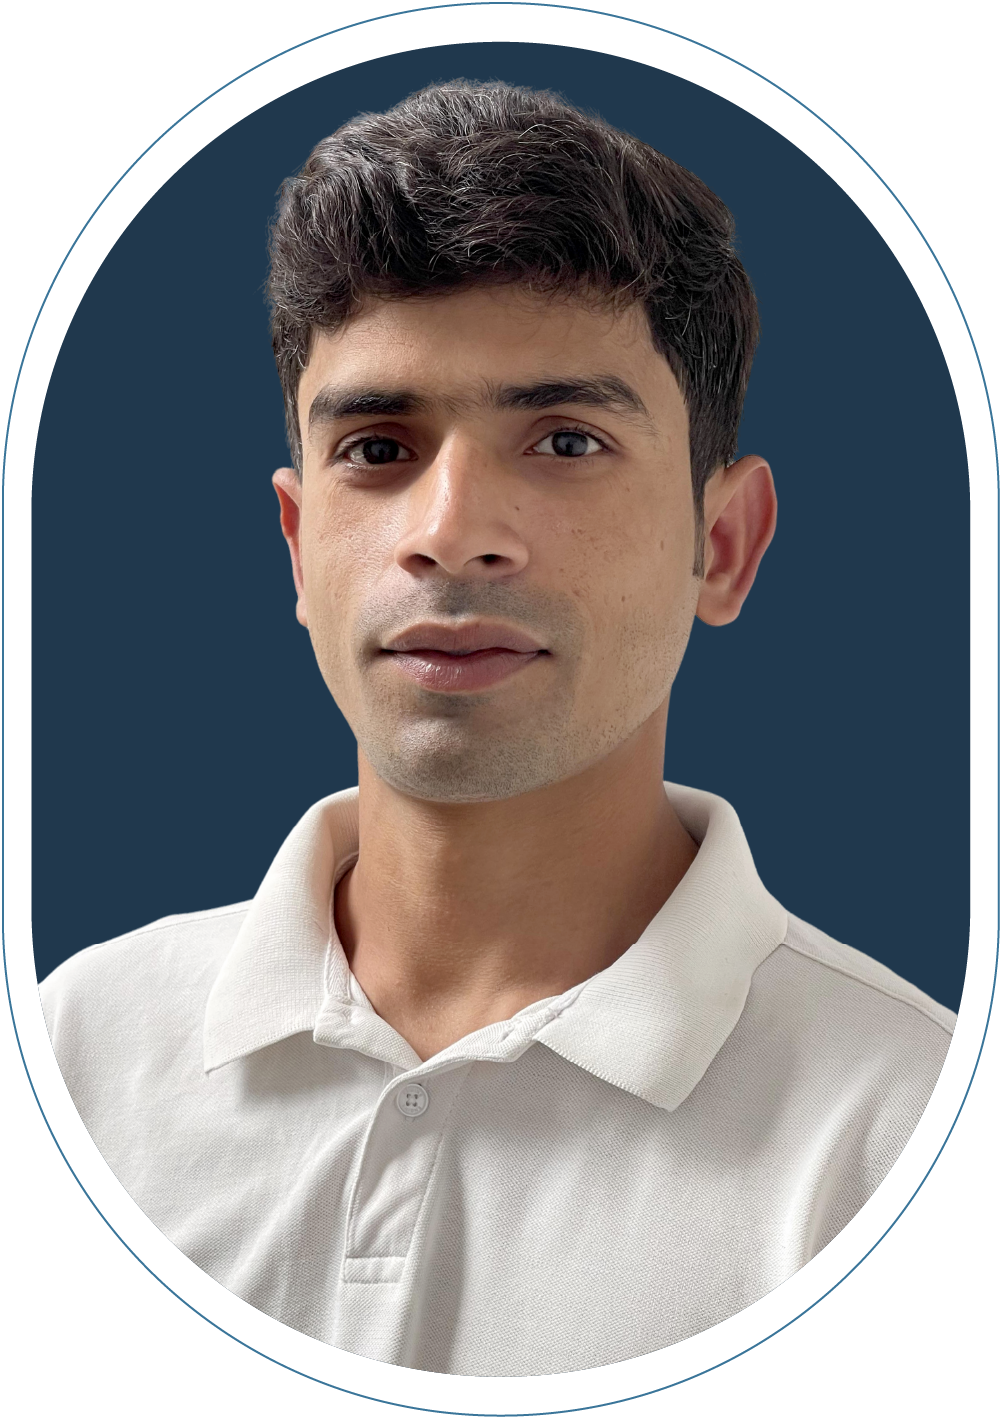
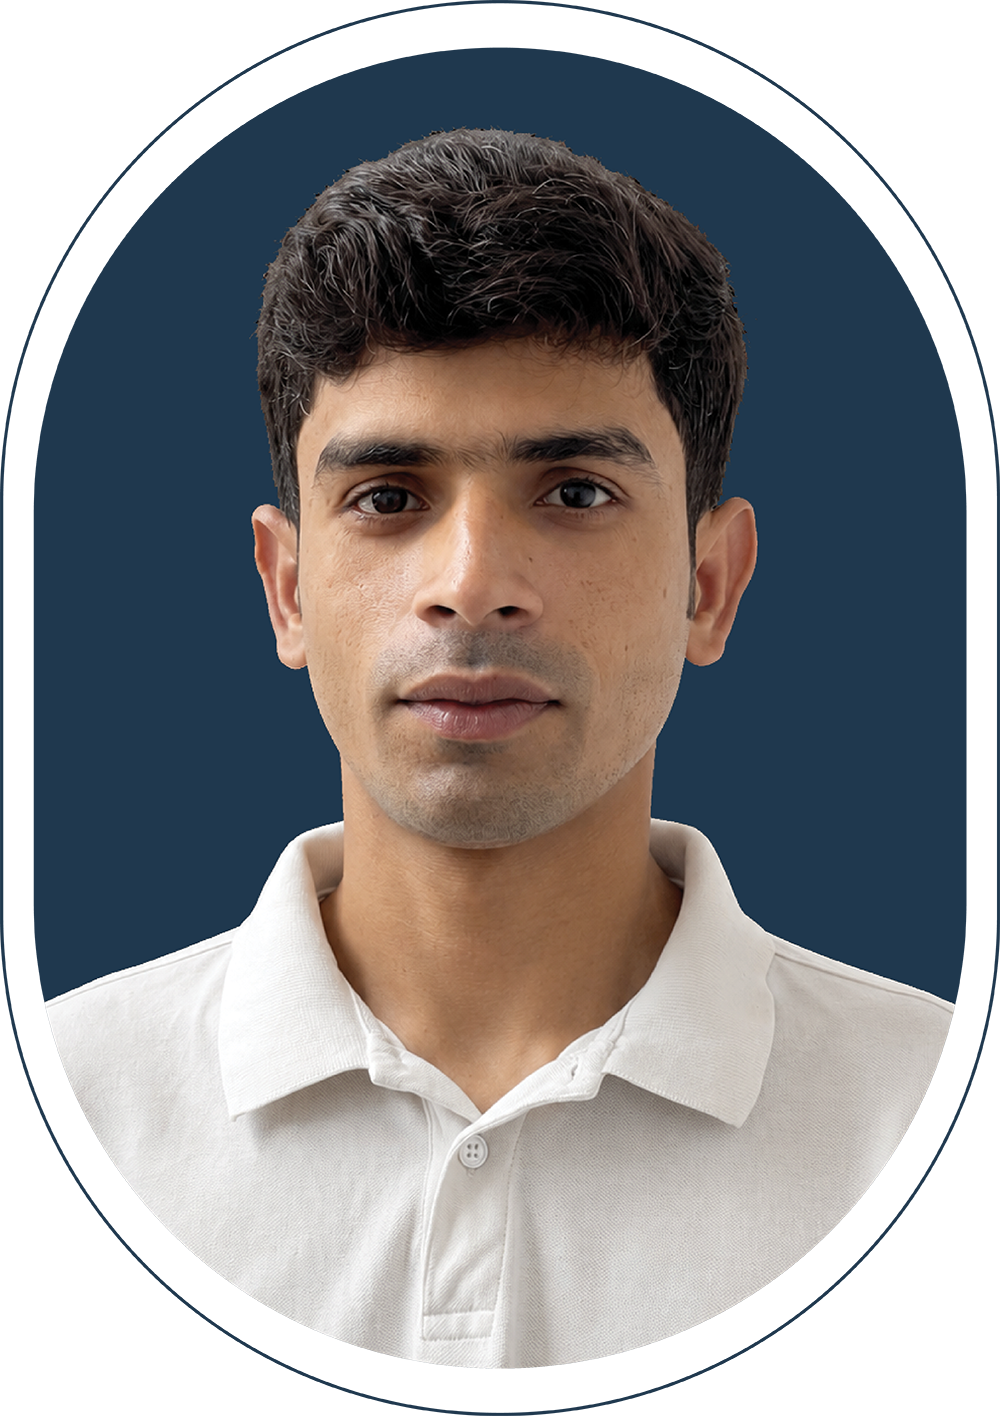
update cv

Changed region(s): [[0.0, 0.0, 1.0, 1.0]]

diff --git a/src/lib/constants.ts b/src/lib/constants.ts
@@ -1,5 +1,3 @@
-import { TfiHtml5 } from "react-icons/tfi";
-import { IoLogoCss3 } from "react-icons/io";
 import { IconType } from "react-icons";
 import { SiExpress, SiMongodb, SiTailwindcss } from "react-icons/si";
 import { IoLogoJavascript } from "react-icons/io5";
@@ -16,7 +14,6 @@ import { GrLocation } from "react-icons/gr";
 export const NavItems = [
   { id: "about", label: "About" },
   { id: "skills", label: "Skills" },
-  { id: "experience", label: "Experience" },
   { id: "projects", label: "Projects" },
   { id: "contact", label: "Contact" },
 ];
@@ -78,36 +75,6 @@ export const skillsCardData: skillsCardType[] = [
   },
 ];
 
-export interface experienceCardType {
-  company: string;
-  logo: React.ReactNode;
-  position: string;
-  type: string;
-  date: string;
-  location: string;
-  description: string;
-  tags: string[];
-}
-export const experienceCardData: experienceCardType[] = [
-  {
-    company: "Lintent",
-    logo: "Boxel",
-    position: "Frontend Developer",
-    type: "Internship Hunt",
-    date: "Dec 2025 - Feb 2026",
-    location: "Remote",
-    description:
-      "Gaining valuable experience in frontend development, worked on building responsive web applications and modern user interfaces. Collaborated with teams to develop scalable solutions using modern technologies and best practices. Focused on writing clean, maintainable code and improving user experience through innovative design patterns.",
-    tags: [
-      "HTML",
-      "JavaScript",
-      "Tailwind CSS",
-      "React",
-      "Next.js",
-      "TypeScript",
-    ],
-  },
-];
 
 export interface Links {
   name: string;
@@ -147,22 +114,31 @@ export interface projectsCardType {
 }
 export const projectsCardData: projectsCardType[] = [
   {
-    title: "E-commerce website",
-    description:
-      "I built a fully functional e-commerce website from scratch using React, applying core concepts and modern development practices.",
-    image: "./e_commerce_img.JPG",
-    tags: ["React", "Tailwind CSS", "TypeScript"],
-    liveUrl: "https://e-commerce-coral-chi-79.vercel.app/",
-    githubUrl: "https://github.com/shakeelrehman501/e-commerce",
-  },
-  {
     title: "Boxel Technology",
     description:
       "I built a complete website for Boxel Technology from scratch using Next.js, implementing page routing and core concepts. This project enhanced my understanding of Next.js fundamentals and real-world application structure.",
     image: "./boxel.png",
-    tags: ["NextJs", "Tailwind CSS", "JavaScript Concepts"],
+    tags: ["Next.js", "React.js", "TypeScript", "Tailwind CSS", "JavaScript ES6+"],
     liveUrl: "https://www.boxeltechnology.com/",
     githubUrl: "https://github.com/shakeelrehman501/boxel_technology",
+  },
+  {
+    title: "E-commerce website",
+    description:
+      "I built a fully functional e-commerce website from scratch using React, applying core concepts and modern development practices.",
+    image: "./e_commerce_img.JPG",
+    tags: ["React", "TypeScript", "Tailwind CSS", "JavaScript ES6+"],
+    liveUrl: "https://lahorecarrent.com/",
+    githubUrl: "https://github.com/shakeelrehman501/e-commerce",
+  },
+  {
+    title: "Lahore Car Rental",
+    description:
+      "I developed a Lahore Car Rental website using Next.js. This project improved my frontend skills and strengthened my understanding of modern web development.",
+    image: "./carrental.png",
+    tags: ["Next.js", "React.js", "TypeScript", "Tailwind CSS", "JavaScript ES6+"],
+    liveUrl: "https://www.lahorecarrent.com/",
+    githubUrl: "https://github.com/shakeelrehman501/lahorecarrent",
   },
 ];
 

diff --git a/src/components/Hero.tsx b/src/components/Hero.tsx
@@ -24,9 +24,15 @@ function Hero() {
               <AnimatedItem type="slideLeft" index={1} className="w-full flex items-center justify-center lg:justify-start">
                 <div className="flex items-center gap-2 border w-fit h-fit px-3 py-1 rounded-full border-gray-400/70 mb-3">
                   <div className="w-2.5 h-2.5 bg-green-400 rounded-full"></div>
-                  <span className="text-sm  font-semibold text-[#0e82eb] dark:text-[#60a5fa]">
-                    Available for Internship / Junior MERN Stack Roles
+                  <div className="flex flex-col sm:flex-row">
+                  <span className="text-sm  font-semibold text-[#0e82eb] dark:text-[#60a5fa] text-wrap">
+                    Available for Internship/
                   </span>
+                  <span className="text-sm  font-semibold text-[#0e82eb] dark:text-[#60a5fa] text-wrap">
+                    Junior MERN Stack Roles 
+                  </span>
+
+                  </div>
                 </div>
               </AnimatedItem>
               <AnimatedItem type="slideLeft" index={1}>
@@ -58,7 +64,7 @@ function Hero() {
             <AnimatedItem type="slideUp" index={4}>
               <div>
                 <a
-                  href="https://drive.google.com/file/d/1qqy9FJIfAxRONX6c8qtdyutQoTedzQKD/view"
+                  href="https://drive.google.com/file/d/1xWoGpLh6-x6Jkn0Ch2iIYt9lFHy4wghw/view"
                   target="_blank"
                   rel="noopener noreferer"
                 >
@@ -91,8 +97,10 @@ function Hero() {
                       <Image
                         src="/myImage.png"
                         alt="My_Image"
-                        width={600}
-                        height={300}
+                        width={1200}
+                        height={900}
+                        priority={true}
+                        loading="eager"
                       />
                     </Tilt>
                   </AnimatedItem>

diff --git a/src/components/ui/ScrollToTop.tsx b/src/components/ui/ScrollToTop.tsx
@@ -1,4 +1,5 @@
 "use client";
+
 import { useEffect, useState } from "react";
 import { FaArrowUp } from "react-icons/fa";
 
@@ -7,32 +8,56 @@ export default function ScrollToTop() {
 
   useEffect(() => {
     const onScroll = () => {
-      if (window.scrollY > 100) {
-        setShow(true);
-      } else {
-        setShow(false);
-      }
+      setShow(window.scrollY > 100);
     };
 
     window.addEventListener("scroll", onScroll);
-
-    // run once on mount
     onScroll();
 
     return () => window.removeEventListener("scroll", onScroll);
   }, []);
 
-  if (!show) return null;
+  const scrollTop = () => {
+    const start = window.scrollY;
+    const duration = 800;
+    const startTime = performance.now();
+
+    const animate = (currentTime:number) => {
+      const progress = Math.min(
+        (currentTime - startTime) / duration,
+        1
+      );
+
+      const ease = 1 - Math.pow(1 - progress, 4);
+
+      window.scrollTo(0, start * (1 - ease));
+
+      if (progress < 1) {
+        requestAnimationFrame(animate);
+      }
+    };
+
+    requestAnimationFrame(animate);
+  };
 
   return (
     <button
-      onClick={() =>
-        window.scrollTo({
-          top: 0,
-          behavior: "smooth",
-        })
-      }
-      className="fixed bg-primary  text-gray-200 dark:bg-secondary bottom-15 right-15 z-50 cursor-pointer hover:scale-110 transition-all ease-in-out  px-4 py-4 rounded-full shadow-2xl border border-gray-50/30"
+      onClick={scrollTop}
+      className={`
+        fixed bottom-15 right-15 z-50
+        bg-primary dark:bg-secondary
+        text-gray-200
+        px-4 py-4 rounded-full
+        shadow-2xl
+        transition-all duration-500
+        hover:scale-110 cursor-pointer
+        
+        ${
+          show
+            ? "opacity-100 translate-y-0"
+            : "opacity-0 translate-y-10 pointer-events-none"
+        }
+      `}
     >
       <FaArrowUp />
     </button>

diff --git a/src/components/Footer.tsx b/src/components/Footer.tsx
@@ -14,7 +14,7 @@ function Footer() {
   };
 
   return (
-    <AnimatedSection className="relative bg-gray-900 dark:bg-black text-white py-12 overflow-hidden">
+    <AnimatedSection className="relative bg-gray-900 dark:bg-black text-white py-12 px-2 sm:px-8 overflow-hidden">
       <div className="relative max-w-7xl mx-auto px-4 sm:px-6 lg:px-8">
         <div className="grid md:grid-cols-3 gap-8">
           {/* Brand Section */}

diff --git a/src/app/page.tsx b/src/app/page.tsx
@@ -1,5 +1,4 @@
 import Contact from "@/components/Contact";
-import Experience from "@/components/Experience";
 import Footer from "@/components/Footer";
 import Navbar from "@/components/Header";
 import Hero from "@/components/Hero";
@@ -13,7 +12,6 @@ export default function Home() {
       <Navbar/>
       <Hero/>
       <Skills/>
-      <Experience/>
       <Projects/>
       <Contact/>
       <Footer/>

diff --git a/src/components/Projects.tsx b/src/components/Projects.tsx
@@ -71,7 +71,7 @@ function Projects() {
   return (
     <section
       id="projects"
-      className="bg-gray-50 dark:bg-gray-900 py-16 lg:py-20 transition-colors"
+      className="bg-white dark:bg-gray-900 py-16 lg:py-20 transition-colors"
     >
       <div className="max-w-7xl mx-auto px-4 sm:px-6 lg:px-8">
         {/* Header */}

diff --git a/src/components/Skills.tsx b/src/components/Skills.tsx
@@ -45,7 +45,7 @@ function Skills() {
   return (
     <section
       id="skills"
-      className="bg-gray-50 dark:bg-gray-900 py-16 lg:py-20 transition-colors"
+      className="bg-gray-100 dark:bg-gray-900 py-16 lg:py-20 transition-colors"
     >
       <div className="max-w-7xl mx-auto px-4 sm:px-6 lg:px-8">
         {/* Header */}

diff --git a/src/components/Contact.tsx b/src/components/Contact.tsx
@@ -70,7 +70,7 @@ function Contact() {
   return (
     <section
       id="contact"
-      className="bg-gray-50 dark:bg-gray-900 py-16 lg:py-20 transition-colors">
+      className="bg-gray-100 dark:bg-gray-900 py-16 lg:py-20 transition-colors">
       {/* Background Image */}
       <ToastContainer
         position="top-right"

diff --git a/src/app/globals.css b/src/app/globals.css
@@ -1,6 +1,7 @@
 @import "tailwindcss";
 @import "tw-animate-css";
 
+
 @custom-variant dark (&:is(.dark *));
 
 :root {
